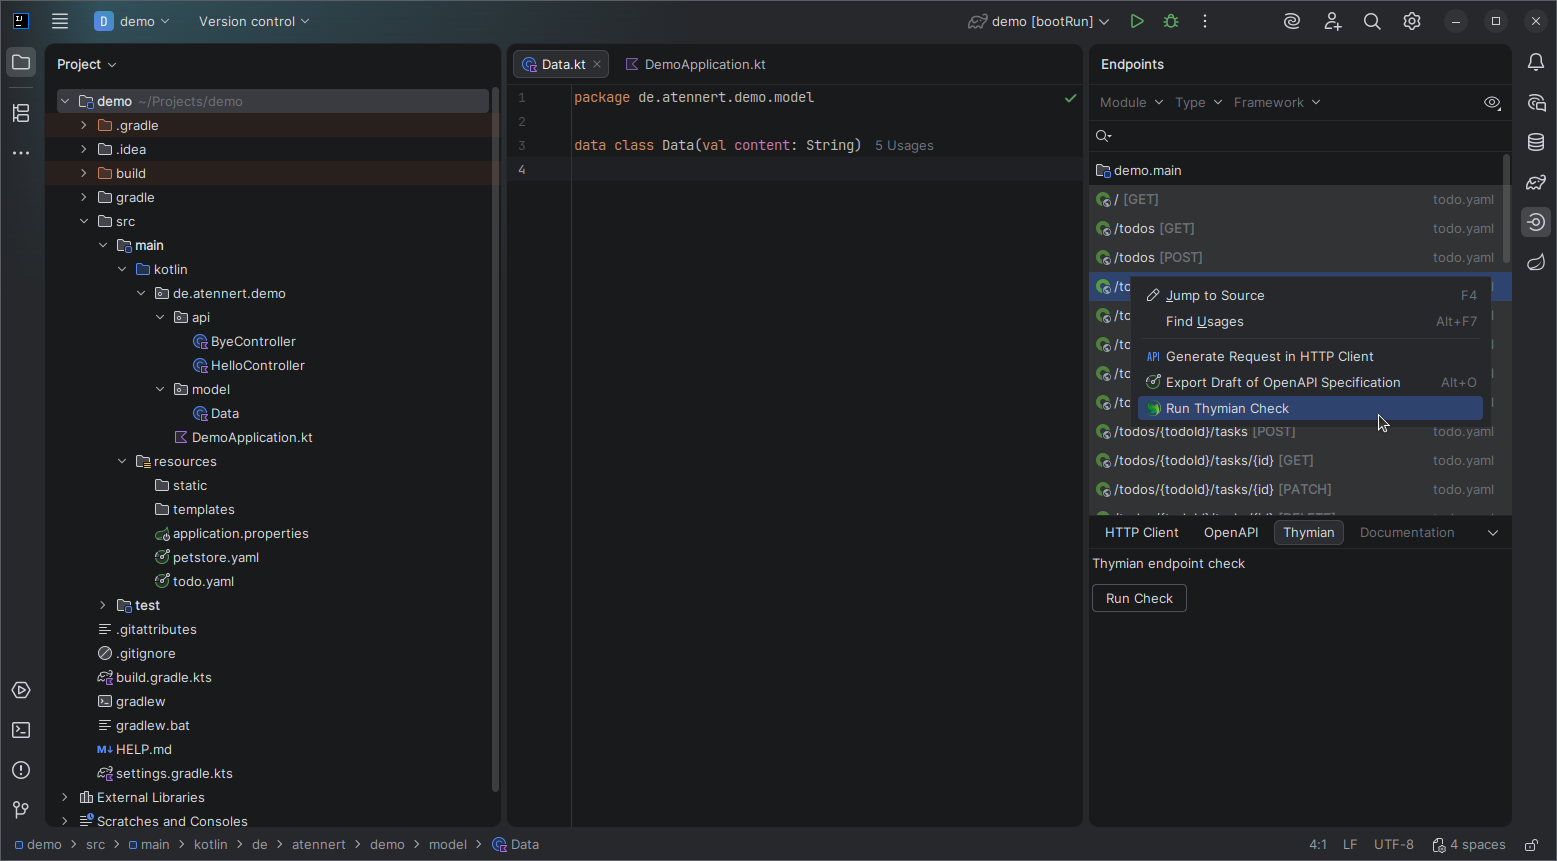
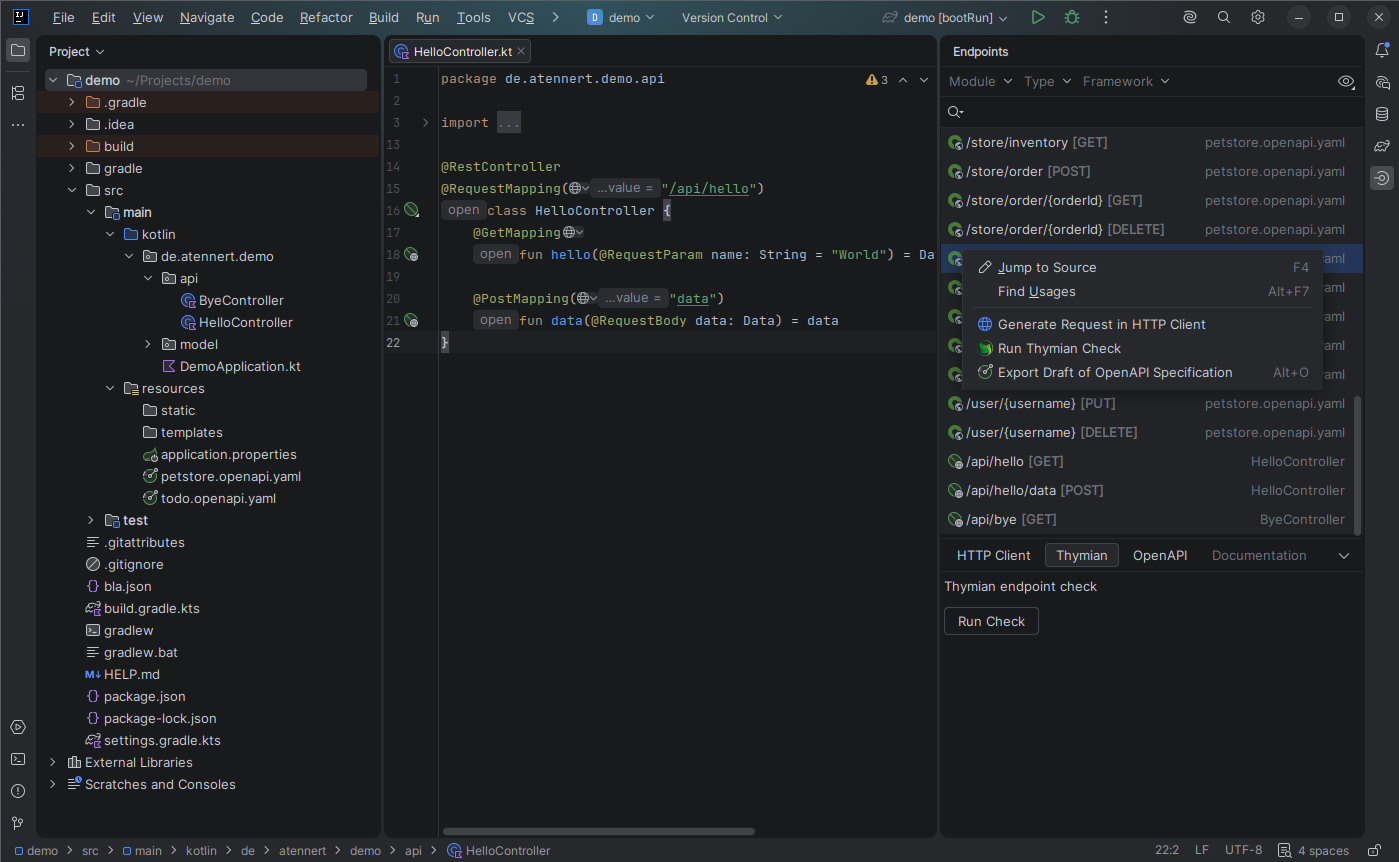
fix: refactor code according to platform changes
- Refactored ThymianBundle
- Introduced own Job.cancelAndJoinSilently

Changed region(s): [[0.0, 0.0, 1.0, 1.0], [0.8299, 0.0, 0.9221, 0.0302], [0.0, 0.7851, 0.0307, 0.8153]]

diff --git a/src/test/kotlin/dev/thymian/client/cli/CoroutineUtilsTest.kt b/src/test/kotlin/dev/thymian/client/cli/CoroutineUtilsTest.kt
@@ -1,0 +1,54 @@
+package dev.thymian.client.cli
+
+import kotlinx.coroutines.CompletableDeferred
+import kotlinx.coroutines.delay
+import kotlinx.coroutines.launch
+import kotlinx.coroutines.runBlocking
+import org.junit.Assert.assertTrue
+import org.junit.Test
+import kotlin.time.Duration.Companion.milliseconds
+
+class CoroutineUtilsTest {
+
+    @Test
+    fun `cancels a running job and suspends until it has completed`() = runBlocking {
+        val started = CompletableDeferred<Unit>()
+        var completedNormally = false
+        val job = launch {
+            try {
+                started.complete(Unit)
+                delay(Long.MAX_VALUE.milliseconds)
+            } finally {
+                completedNormally = true
+            }
+        }
+        started.await()
+
+        job.cancelAndJoinSilently()
+
+        assertTrue(job.isCompleted)
+        assertTrue(completedNormally)
+    }
+
+    @Test
+    fun `swallows an exception thrown by the job instead of propagating it`() = runBlocking {
+        val job = launch {
+            throw IllegalStateException("boom")
+        }
+
+        // Must not throw, even though the job itself failed.
+        job.cancelAndJoinSilently()
+
+        assertTrue(job.isCompleted)
+    }
+
+    @Test
+    fun `is a no-op for an already completed job`() = runBlocking {
+        val job = launch { }
+        job.join()
+
+        job.cancelAndJoinSilently()
+
+        assertTrue(job.isCompleted)
+    }
+}

diff --git a/src/main/kotlin/dev/thymian/client/ThymianBundle.kt b/src/main/kotlin/dev/thymian/client/ThymianBundle.kt
@@ -1,20 +1,21 @@
 package dev.thymian.client
 
 import com.intellij.DynamicBundle
+import org.jetbrains.annotations.Nls
 import org.jetbrains.annotations.NonNls
 import org.jetbrains.annotations.PropertyKey
+import java.util.function.Supplier
 
 @NonNls
 private const val BUNDLE = "messages.ThymianBundle"
 
-object ThymianBundle : DynamicBundle(BUNDLE) {
+internal object ThymianBundle {
+    private val INSTANCE = DynamicBundle(ThymianBundle::class.java, BUNDLE)
 
-    @JvmStatic
-    fun message(@PropertyKey(resourceBundle = BUNDLE) key: String, vararg params: Any) =
-        getMessage(key, *params)
+    fun message(@PropertyKey(resourceBundle = BUNDLE) key: String, vararg params: Any): @Nls String =
+        INSTANCE.getMessage(key, *params)
 
     @Suppress("unused")
-    @JvmStatic
-    fun messagePointer(@PropertyKey(resourceBundle = BUNDLE) key: String, vararg params: Any) =
-        getLazyMessage(key, *params)
+    fun messagePointer(@PropertyKey(resourceBundle = BUNDLE) key: String, vararg params: Any): Supplier<@Nls String> =
+        INSTANCE.getLazyMessage(key, *params)
 }

diff --git a/src/main/kotlin/dev/thymian/client/cli/CoroutineUtils.kt b/src/main/kotlin/dev/thymian/client/cli/CoroutineUtils.kt
@@ -1,0 +1,19 @@
+package dev.thymian.client.cli
+
+import kotlinx.coroutines.Job
+import kotlinx.coroutines.cancelAndJoin
+
+/**
+ * Cancels this job and suspends until it has completed, swallowing any exception.
+ *
+ * Replaces `com.intellij.collaboration.async.cancelAndJoinSilently`, whose [Job] overload was
+ * removed in 263 (it survives only for `CoroutineScope`) and which is experimental API from a
+ * module this plugin does not depend on. The body mirrors the platform's implementation.
+ */
+internal suspend fun Job.cancelAndJoinSilently() {
+    try {
+        cancelAndJoin()
+    } catch (_: Exception) {
+        // Same as the platform helper: the join is best-effort, the caller is shutting down.
+    }
+}

diff --git a/src/main/kotlin/dev/thymian/client/cli/ThymianCLILocalRunner.kt b/src/main/kotlin/dev/thymian/client/cli/ThymianCLILocalRunner.kt
@@ -1,6 +1,5 @@
 package dev.thymian.client.cli
 
-import com.intellij.collaboration.async.cancelAndJoinSilently
 import com.intellij.openapi.diagnostic.thisLogger
 import com.intellij.openapi.project.Project
 import com.intellij.openapi.util.SystemInfo

diff --git a/src/main/kotlin/dev/thymian/client/cli/ThymianCLIAdapter.kt b/src/main/kotlin/dev/thymian/client/cli/ThymianCLIAdapter.kt
@@ -1,6 +1,5 @@
 package dev.thymian.client.cli
 
-import com.intellij.collaboration.async.cancelAndJoinSilently
 import com.intellij.openapi.diagnostic.thisLogger
 import dev.thymian.client.settings.ThymianSettings
 import io.ktor.client.*

diff --git a/CHANGELOG.md b/CHANGELOG.md
@@ -3,5 +3,19 @@
 # intellij-plugin Changelog
 
 ## [Unreleased]
+
+### Fixed
+
+- Plugin failing `verifyPlugin` / breaking at runtime on 2026.3 (build 263): replaced the
+  removed experimental `com.intellij.collaboration.async.cancelAndJoinSilently` platform API
+  with a local helper.
+- Refactored ThymianBundle to current suggestion in IntelliJ docs, because the last implementation failed
+  `verifyPlugin`.
+
+## [0.0.1]
+
 ### Added
-- Initial scaffold created from [IntelliJ Platform Plugin Template](https://github.com/JetBrains/intellij-platform-plugin-template)
+
+- Added options for running Thymian checks in endpoints view.
+- Initial scaffold created
+  from [IntelliJ Platform Plugin Template](https://github.com/JetBrains/intellij-platform-plugin-template)
